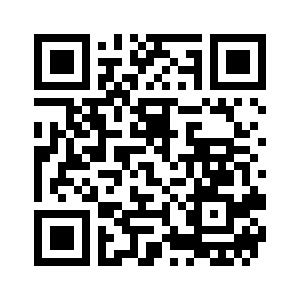
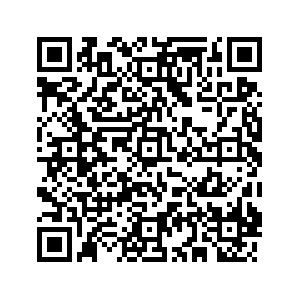
changes in react-client

Changed region(s): [[0.09, 0.09, 0.9, 0.9]]

diff --git a/url-shortner-client-react-js/src/components/QrForm.js b/url-shortner-client-react-js/src/components/QrForm.js
@@ -2,22 +2,30 @@ import React, { useState } from 'react'
 import axios from 'axios';
 const QrForm=function QrForm({OnQrGenerated}){
     const [InputTextQr,SetInputTextQr]=useState('');
+    const [path,setPath]=useState('');
 
     const generateQr=async()=>{
         try {
           const response=await axios.post("http://localhost:8080/v1/QrGen",{
             url:InputTextQr
           })
-            const QrPath={
-              path:response.data.path
-            }
-            console.log("path at form"+QrPath.path);
-            OnQrGenerated(QrPath)
+          console.log(typeof(response));
+          const responseData = new Blob([response.data]);
+          const QrPath = URL.createObjectURL(responseData);
+          console.log("QrForm"+typeof(QrPath));
+          setPath(QrPath);
+          OnQrGenerated(QrPath);
         } catch (error) {
           console.error(error);
         }
       }
-    
+      const displayQr = () => {
+        generateQr();
+        if (path) {
+          return <img src={path} alt="qrcode" />;
+        }
+        return null; // Return null if path is falsy
+      };
     return(
         <div className="container">
         <h1 className="title">QR GENERATOR</h1>
@@ -30,6 +38,9 @@ const QrForm=function QrForm({OnQrGenerated}){
           }}
         />
         <button className="QrGen" type="submit" onClick={generateQr}>Generate QR</button>
+        <br />
+        {displayQr()}
+      <button type="submit">butt</button>
       </div>
     )
 }

diff --git a/url-shortner-client-react-js/src/App.js b/url-shortner-client-react-js/src/App.js
@@ -3,14 +3,14 @@ import "./App.css";
 import React, { useState } from "react";
 import UrlForm from "./components/UrlForm";
 import UrlResult from "./components/UrlResult";
-// import QrForm from "./components/QrForm";
-// import QrResult from "./components/QrResult";
+import QrForm from "./components/QrForm";
+import QrResult from "./components/QrResult";
 const prefix="http://localhost:8080/v1/"
 function App() {
   const [UrlData, setUrl] = useState({ longUrl: "", ShortKey: "" });
   const [ShowUrl, SetShowUrl] = useState(false);
-  // const [QrPath,SetQrPath]=useState({path:""});
-  // const [ShowQr, SetShowQr] = useState(false);
+  const [QrPath,SetQrPath]=useState({path:""});
+  const [ShowQr, SetShowQr] = useState(false);
 
 
   const handleUrl = (NewUrlData) => {
@@ -18,22 +18,23 @@ function App() {
     SetShowUrl(true);
   }
 
-  // const handleQr=(QrPath)=>{
-  //   console.log(QrPath);
-  //   SetQrPath(QrPath);
-  //   SetShowQr(true);
-  // }
+  const handleQr=(QrPath)=>{
+    console.log("app.js"+QrPath);
+    SetQrPath(QrPath);
+    SetShowQr(true);
+  }
 
   return (
+
     <div>
       <UrlForm onUrlShortened={handleUrl} />
       {ShowUrl && (
         <UrlResult longUrl={UrlData.longUrl} ShortKey={UrlData.ShortKey} prefix={prefix} />
       )}
-      {/* <QrForm OnQrGenerated={handleQr} />
+      <QrForm OnQrGenerated={handleQr} />
       {ShowQr && (
-        <QrResult path={QrPath.path} />
-      )} */}
+        <QrResult path={QrPath} />
+      )}
     </div>
   );
 }

diff --git a/url-shortner-client-react-js/src/components/QrResult.js b/url-shortner-client-react-js/src/components/QrResult.js
@@ -1,19 +1,16 @@
 import React from 'react'
 // import QrCode from '/home/navmeet/Desktop/computer programs/projects/url-shortner/urlShortner/src/main/resources/static/QrCodes'
-const QrResult=function QrResult({path}){
-
-    const source="../urlShortner/"+path;
-    console.log(source);
+const QrResult=function QrResult(path){
+  console.log(typeof(path));
+  console.log(path.path);
     return(
         <>
         <div className="outputContainer">
         {path? (
           <div>
             {/* <p>Original url:<a className="original" href={longUrl}>{longUrl}</a></p> */}
-            <div>
-                Qr:<img className="qrCode" src={source} alt='Qr code' width='200' height='200'></img>
+                Qr:<img className="qrCode" src={path.path} alt='Qr code' width='100' height='100'></img>
                 {/* <button className='qrDownload' onclick='downloadImage()'>Download Qr Code</button> */}
-            </div>
           </div>
         ) : null}
       </div>
